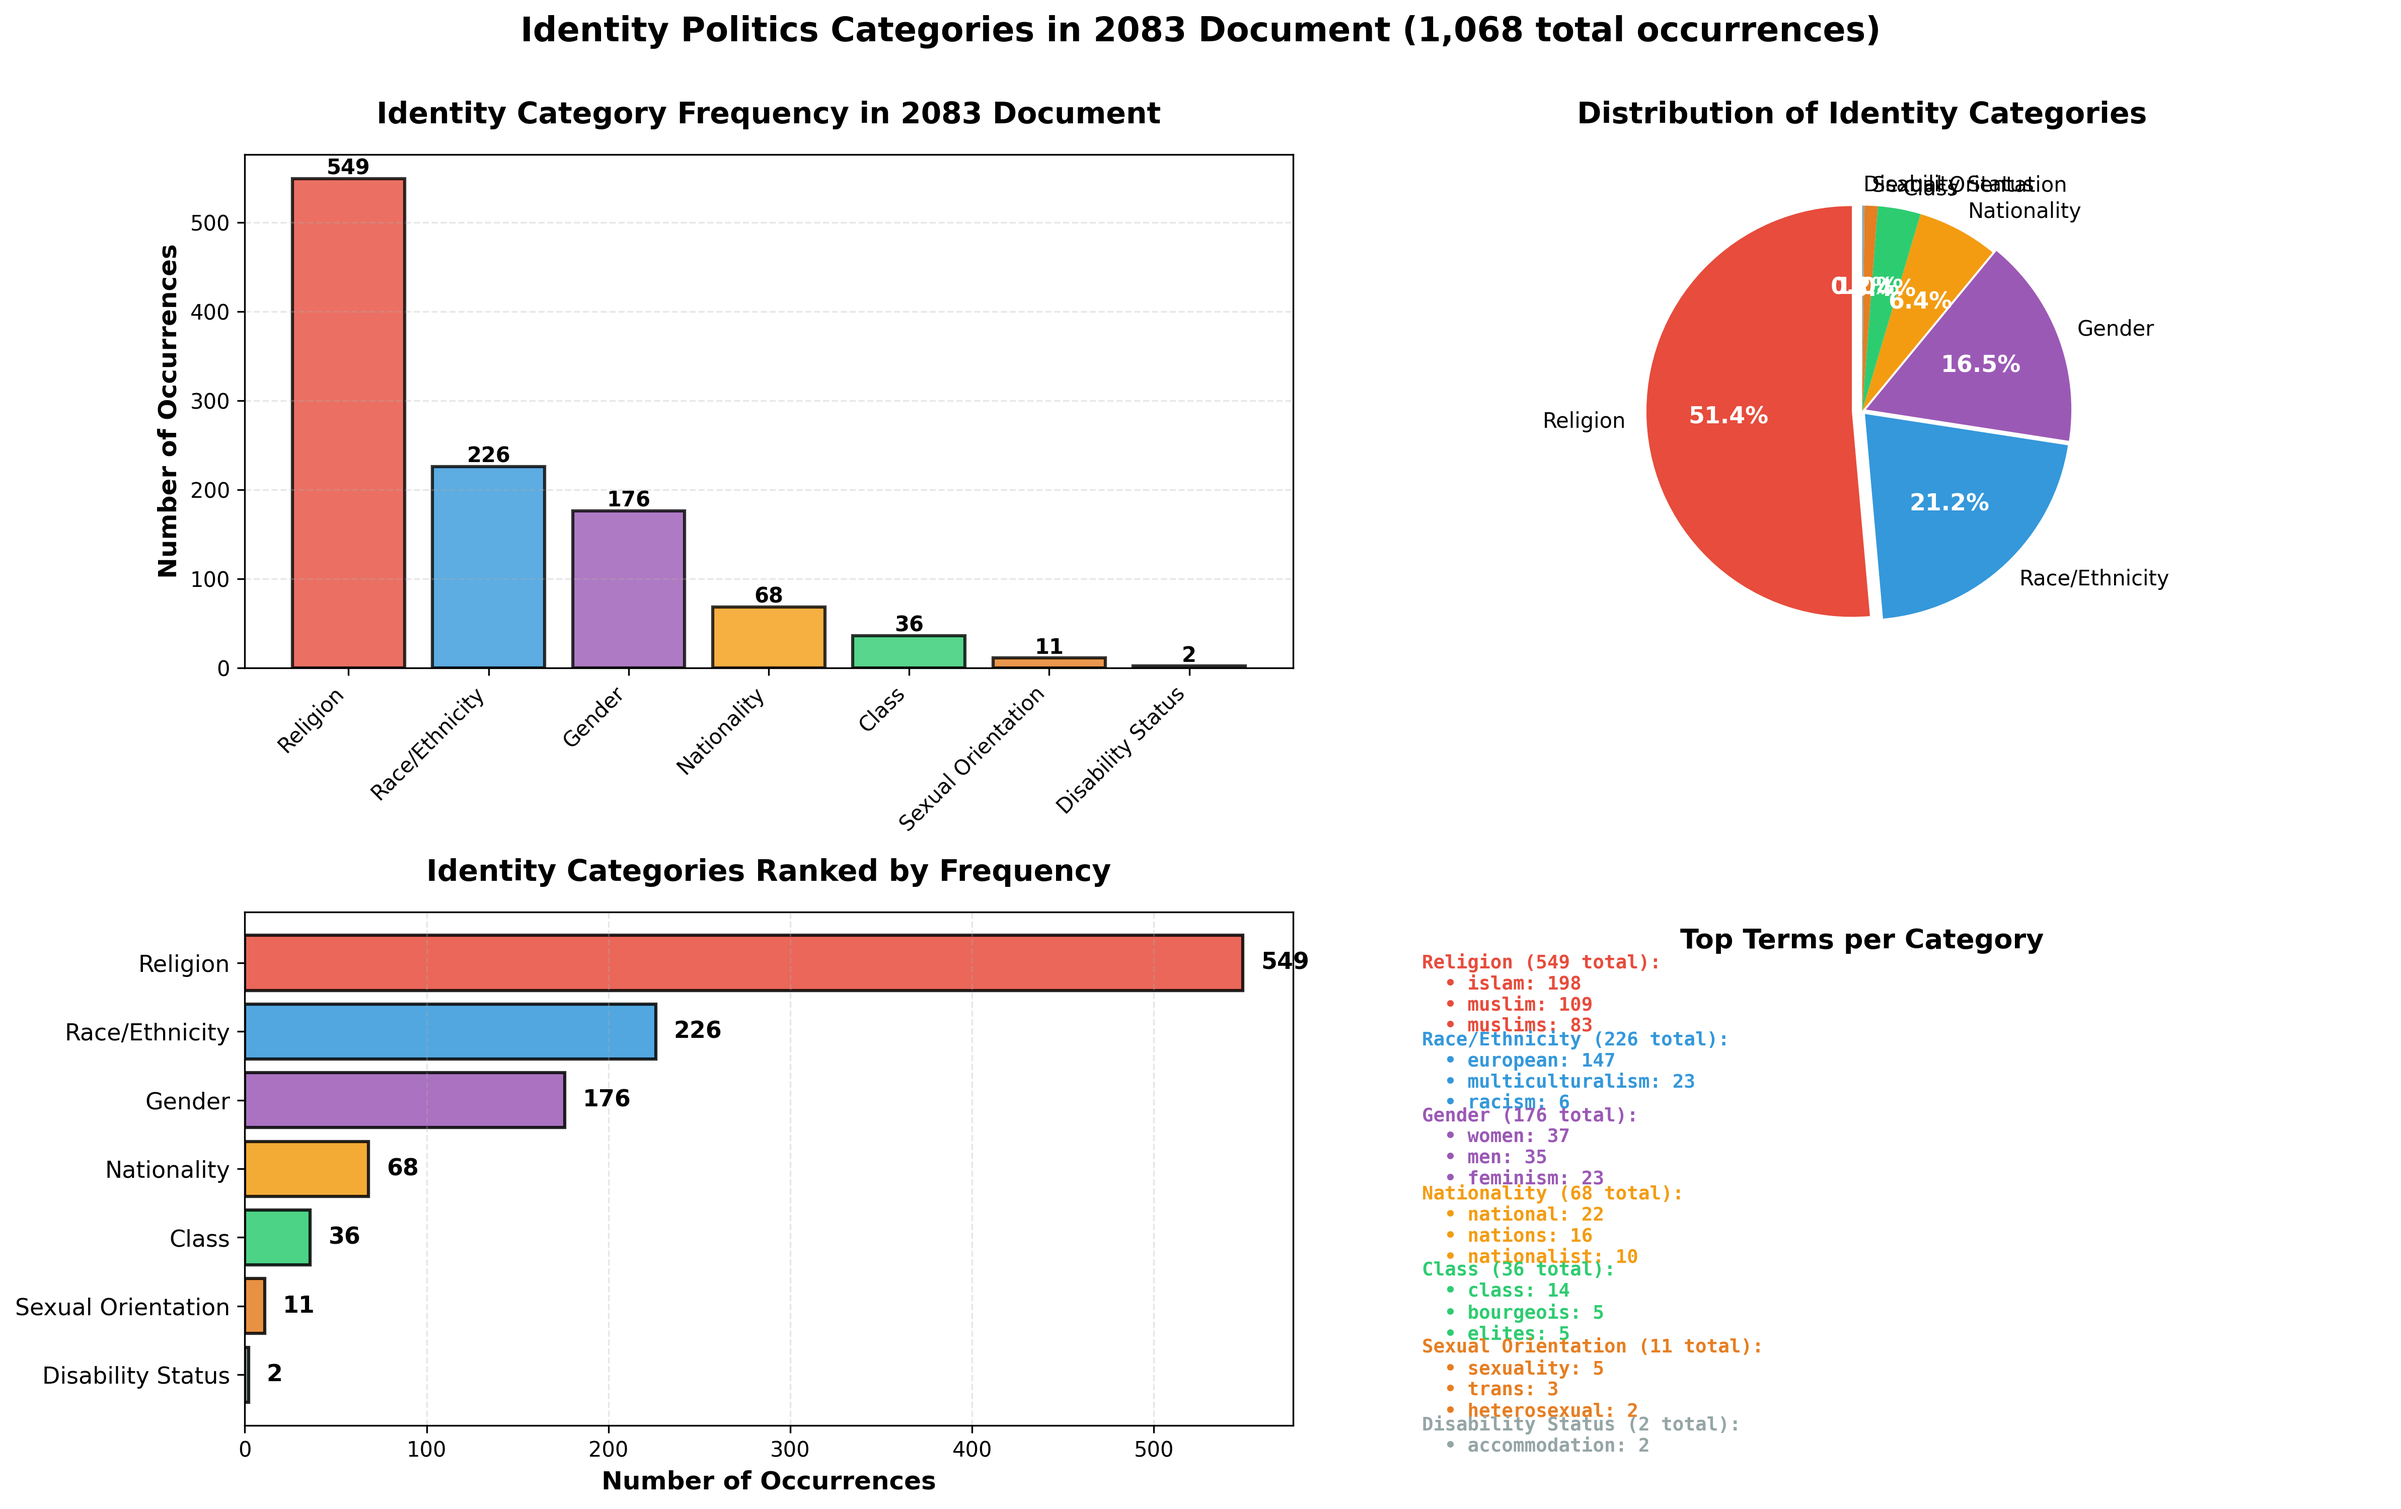
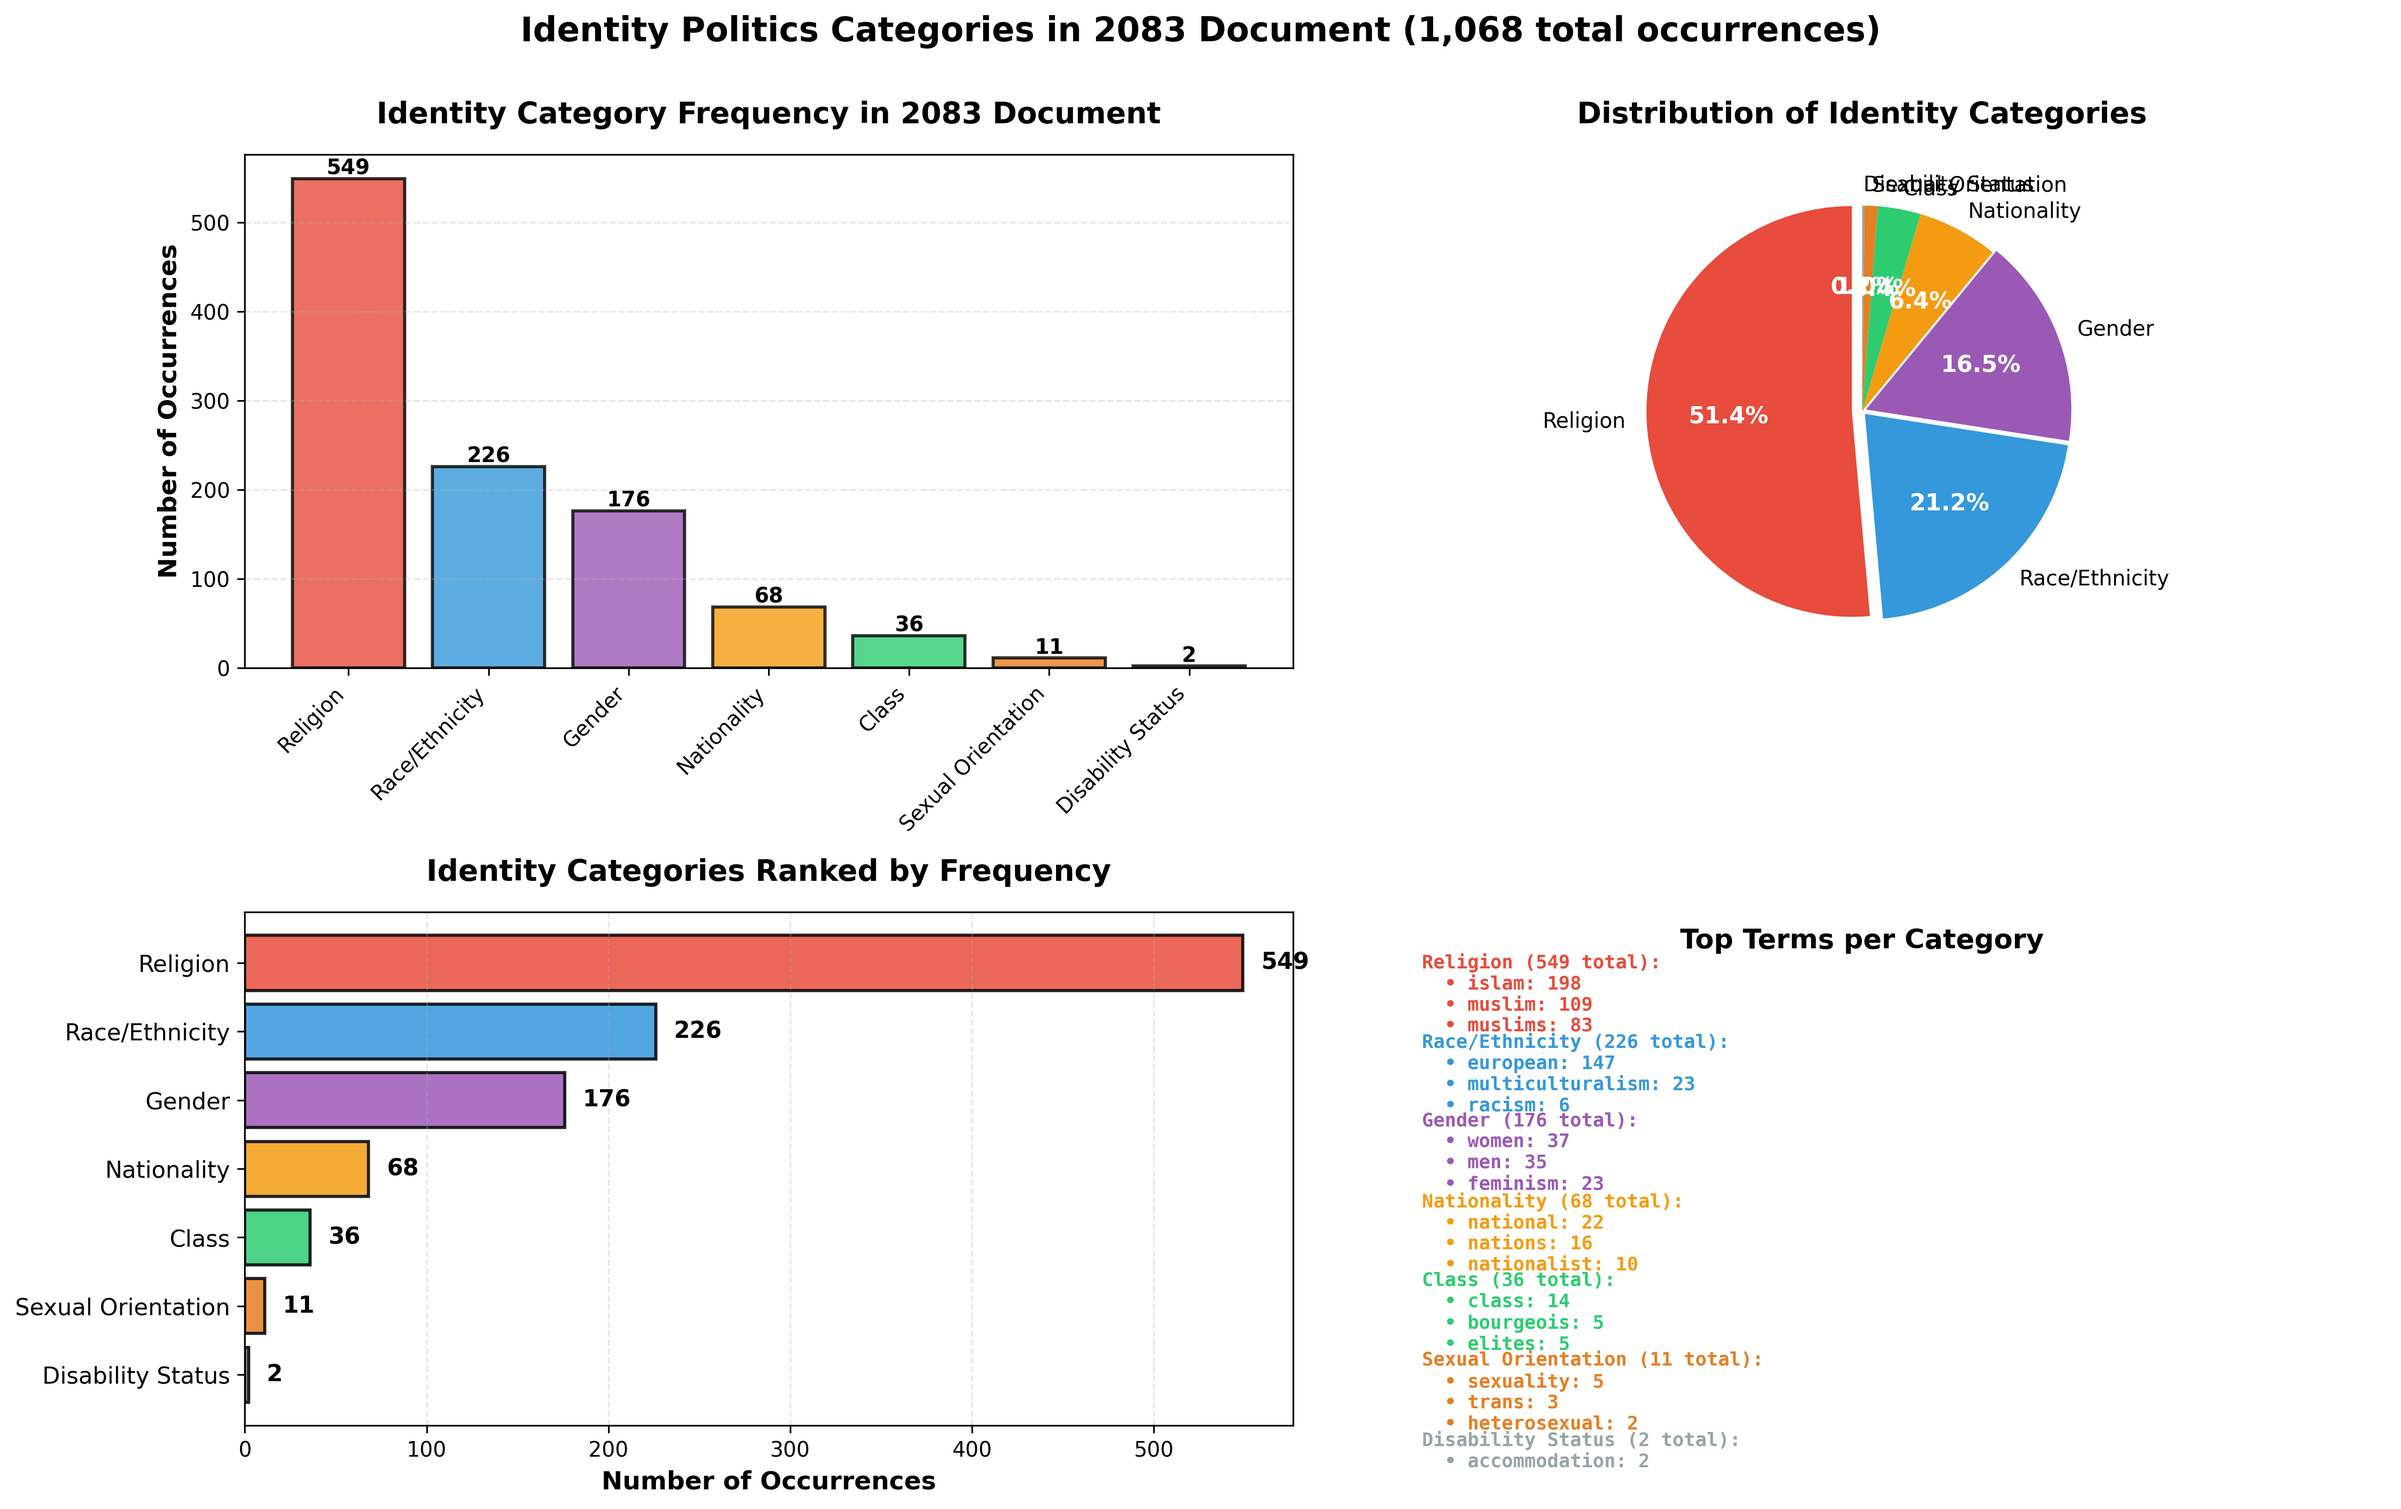
Further increase spacing between categories in 4th quadrant

Changed region(s): [[0.5935, 0.6825, 0.7184, 0.9927]]

diff --git a/visualize_identity_categories.py b/visualize_identity_categories.py
@@ -95,7 +95,7 @@ for i, cat in enumerate(categories):
     ax4.text(0.08, y_offset, full_text, fontsize=9, verticalalignment='top',
              fontfamily='monospace', color=color, fontweight='bold')
     
-    y_offset -= 0.15
+    y_offset -= 0.155
 
 ax4.set_xlim(0, 1)
 ax4.set_ylim(0, 1)
